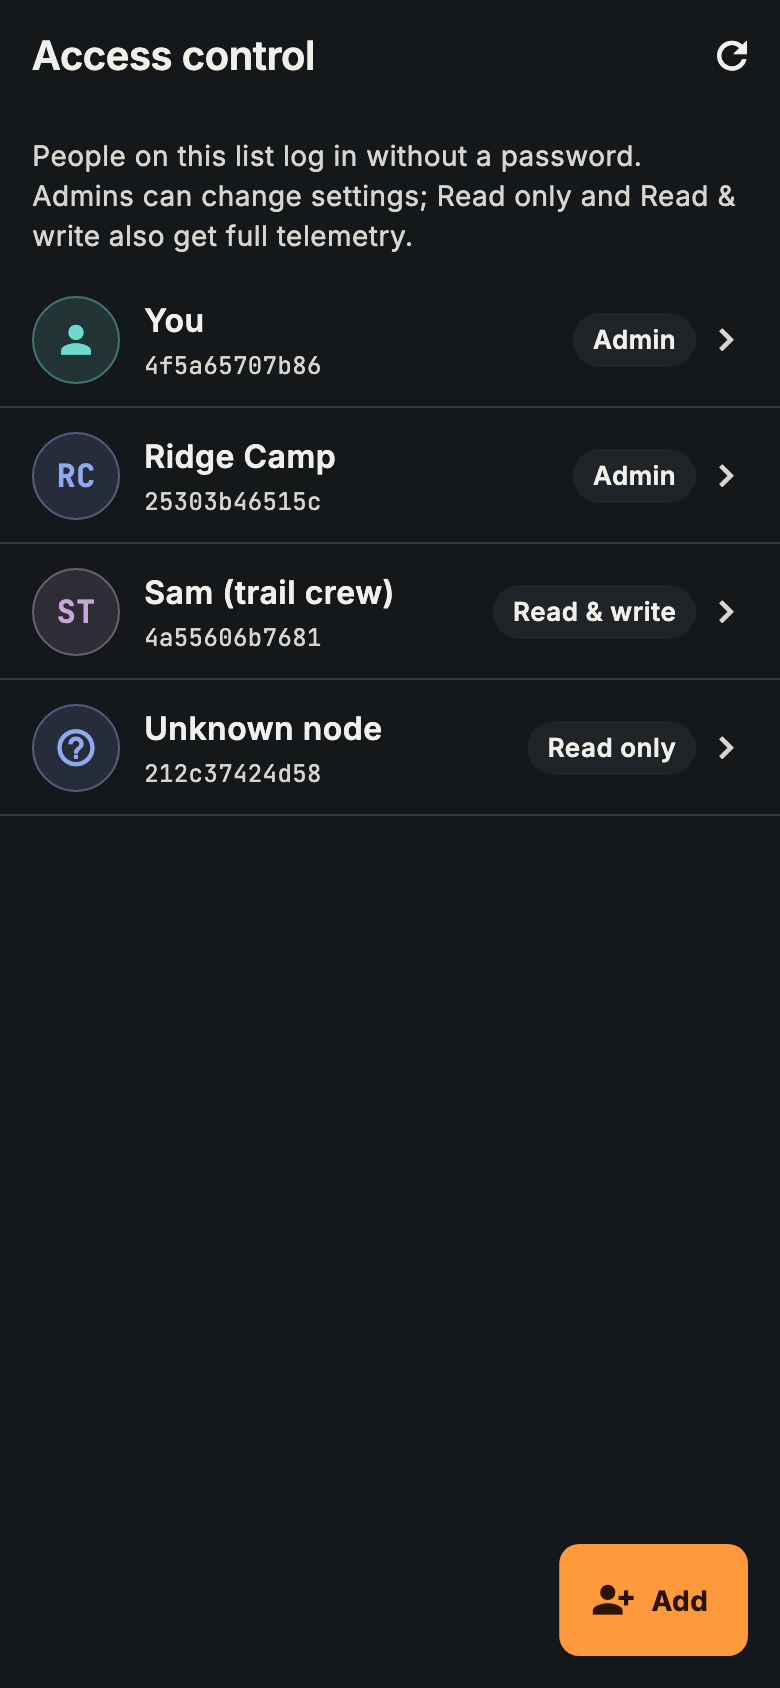
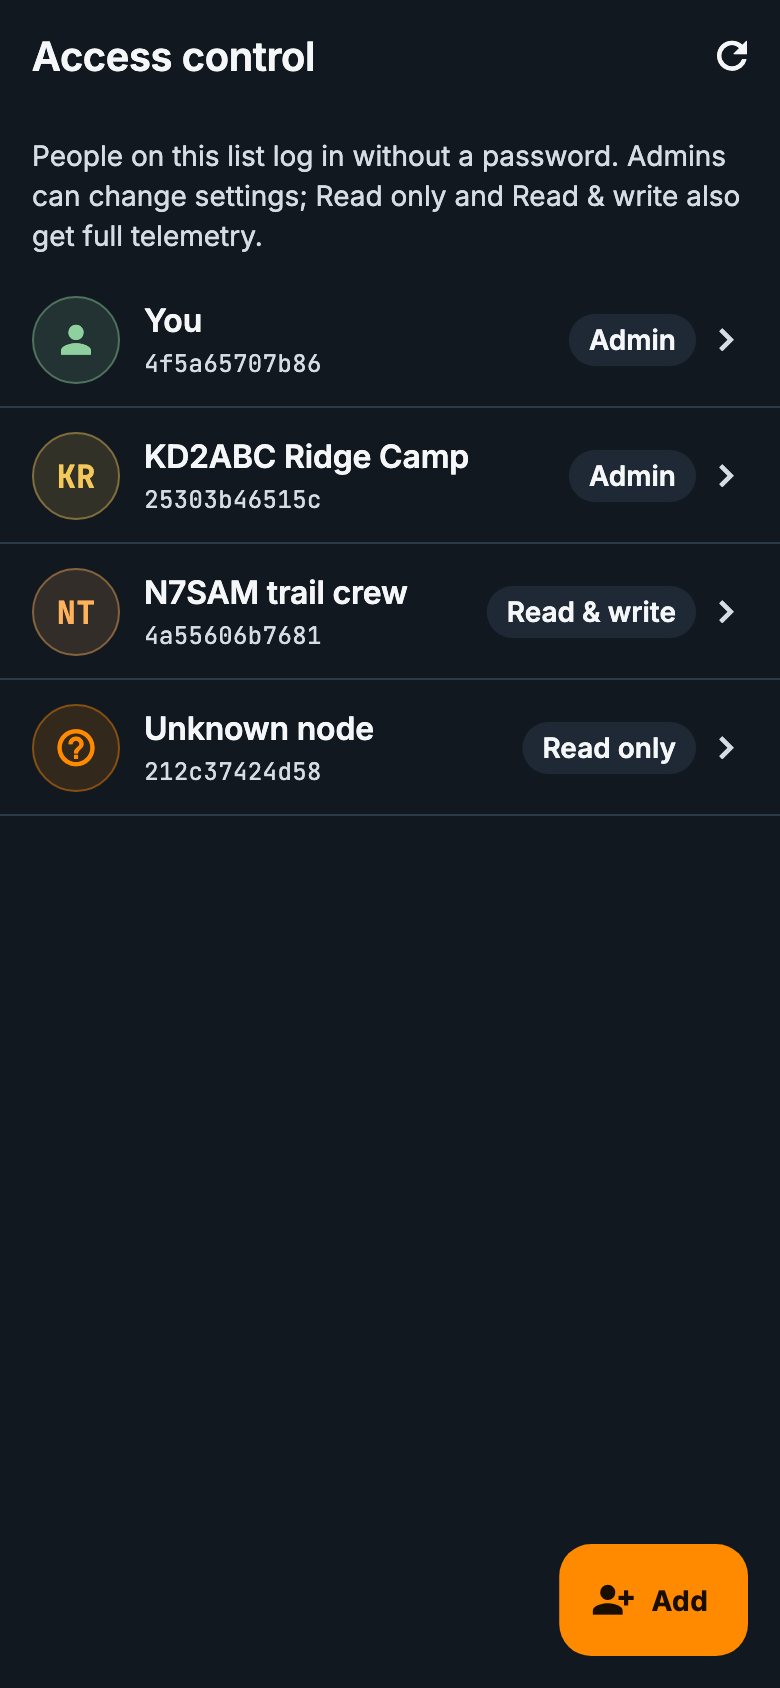
README and screenshots current as of test 14
The README still said there were no public builds and listed four themes.
It now points at test 14 and the Releases repo, lists the 14 compiled-only
firmware boards and the G2/G3 Bluetooth companion, and covers what tests
8-14 added: reports, replies and forwarding, app lock, team config,
automation rules, backup and restore, mesh health, node journal, timeline,
route picker, day replay, trace cards, the Fresnel zone, the node compass,
node looks, custom backgrounds and the eight themes.

Every screenshot is re-rendered from the current app with the preview test
and demo data. The light-theme image the README pointed at was missing; it
now shows Pink Overload. The preview test gains the node compass (with a
fake compass), the node-look sheet over Nodes, the background screen, and
two nodes with a chosen colour.

diff --git a/test/preview/screens_preview_test.dart b/test/preview/screens_preview_test.dart
@@ -7,6 +7,7 @@
 // renders taller than a phone screen, for reviewing long screens whole.
 // PREVIEW_TEXT_SCALE=1.5 renders with the system text size turned up.
 import 'dart:async';
+import 'dart:convert';
 import 'dart:io';
 import 'dart:ui' as ui;
 
@@ -84,6 +85,11 @@ import 'package:meshcore_open/models/radio_settings.dart';
 import 'package:meshcore_open/screens/licensed_operator_screen.dart';
 import 'package:meshcore_open/widgets/operator_setup_banner.dart';
 import 'package:meshcore_open/widgets/ui/mesh_states.dart';
+import 'package:meshcore_open/screens/backdrop_settings_screen.dart';
+import 'package:meshcore_open/screens/node_compass_screen.dart';
+import 'package:meshcore_open/services/device_compass.dart';
+import 'package:meshcore_open/services/node_look_store.dart';
+import 'package:meshcore_open/widgets/node_look_sheet.dart';
 
 // Anchored to today so time-filtered screens (path graph) have data in range.
 final _today = DateTime.now();
@@ -611,6 +617,17 @@ void main() {
         message: 'This removes #trailhead and its history from this phone.',
       ),
     ),
+    'node_compass': () =>
+        NodeCompassScreen(node: _contacts[1], compass: const _FakeCompass()),
+    'node_look': () => _OpensDialog(
+      (context) => showNodeLookSheet(
+        context,
+        nodeKey: _contacts[0].publicKeyHex,
+        name: _contacts[0].name,
+      ),
+      behind: const ContactsScreen(hideBackButton: true),
+    ),
+    'backdrop_settings': () => const BackdropSettingsScreen(),
     'confirm_action': () => _OpensDialog(
       (context) => confirmAction(
         context,
@@ -626,9 +643,16 @@ void main() {
   });
 
   setUp(() async {
-    SharedPreferences.setMockInitialValues({});
+    // Two nodes with a chosen colour, so the lists show node looks.
+    SharedPreferences.setMockInitialValues({
+      NodeLookStore.prefsKey: jsonEncode({
+        _contacts[0].publicKeyHex.toLowerCase(): {'c': 0xFF29B6F6},
+        _contacts[2].publicKeyHex.toLowerCase(): {'c': 0xFF7CB342},
+      }),
+    });
     PrefsManager.reset();
     await PrefsManager.initialize();
+    NodeLookStore.instance.reload();
     final tmp = Directory.systemTemp.createTempSync('preview').path;
     TestDefaultBinaryMessengerBinding.instance.defaultBinaryMessenger
         .setMockMethodCallHandler(
@@ -780,9 +804,12 @@ List<NetworkSighting> _sampleSightings() {
 
 /// A blank screen that opens [open] after its first frame, for dialog shots.
 class _OpensDialog extends StatefulWidget {
-  const _OpensDialog(this.open);
+  const _OpensDialog(this.open, {this.behind});
 
   final Future<Object?> Function(BuildContext context) open;
+
+  /// What shows behind the dialog or sheet; an empty screen by default.
+  final Widget? behind;
 
   @override
   State<_OpensDialog> createState() => _OpensDialogState();
@@ -798,5 +825,19 @@ class _OpensDialogState extends State<_OpensDialog> {
   }
 
   @override
-  Widget build(BuildContext context) => const Scaffold(body: SizedBox());
+  Widget build(BuildContext context) =>
+      widget.behind ?? const Scaffold(body: SizedBox());
+}
+
+/// A compass that always faces 40° magnetic, with 15° declination.
+class _FakeCompass extends DeviceCompass {
+  const _FakeCompass();
+
+  @override
+  Stream<CompassReading> readings() =>
+      Stream.value(const CompassReading(magneticHeading: 40, accuracy: 3));
+
+  @override
+  Future<double?> declination(double lat, double lon, {double alt = 0}) async =>
+      15;
 }

diff --git a/README.md b/README.md
@@ -17,7 +17,7 @@ NOTORYX Core Ham is the amateur radio (FCC Part 97) edition of NOTORYX Core. Pai
   <img src="docs/screenshots/ham_presets.png" width="230" alt="Radio presets: US 33 cm and 70 cm only">
 </p>
 
-> **Status: in development.** The app and firmware pass automated tests and a mesh simulator, but have **not been tested on the air yet**. There are no public builds. Everything you send is readable by anyone: that's the law on amateur bands, not a bug.
+> **Status: test builds.** The latest is **[test 14](https://github.com/TheLogsAreScreaming/NOTORYX-Core-Ham-Releases/releases/tag/v0.1.0-test.14)** (`0.1.0-test.14`, 15 November 2026). The app and firmware pass automated tests and a mesh simulator, but have **not been tested on the air yet**. Use them only on a bench with dummy loads or minimum power until they have been. Everything you send is readable by anyone: that's the law on amateur bands, not a bug.
 
 ## What makes it a ham app
 
@@ -44,10 +44,14 @@ The NOTORYX Ham firmware isn't compatible with ordinary MeshCore on the air. Eve
 | RAK WisBlock / WisMesh (RAK4631) | Bluetooth or USB | ✓ |
 | RAK WisMesh 1W Booster (RAK3401 + 13302) | Bluetooth or USB | ✓ |
 | Seeed Studio SenseCAP T1000-E | Bluetooth or USB | — |
-| UnitEng Station G2 | USB | ✓ |
-| UnitEng Station G3 | USB | ✓ |
+| UnitEng Station G2 | Bluetooth or USB | ✓ |
+| UnitEng Station G3 | Bluetooth or USB | ✓ |
 
-Station G2 and G3 companions are USB only: the Bluetooth build doesn't fit on those boards (the same as stock MeshCore v1.18.0). The firmware's transmit power is the radio chip's setting; boards with an amplifier put out more, so use the least power that works.
+The Station G2 and G3 Bluetooth companion is in [firmware test 3](https://github.com/TheLogsAreScreaming/NOTORYX-Core-Ham-Releases/releases/tag/v1.18.0-ham-test.3).
+
+**Compiled but never flashed:** [firmware test 4](https://github.com/TheLogsAreScreaming/NOTORYX-Core-Ham-Releases/releases/tag/v1.18.0-ham-test.4) adds companion and repeater builds for 14 more boards: Heltec V3, Heltec Wireless Stick Lite V3, Seeed SenseCAP Solar Node, Seeed Wio Tracker L1, Seeed Xiao nRF52 kit, Seeed Xiao S3, LilyGO T-Beam (SX1262 or SX1276), LilyGO T-Beam S3, nRF52 Pro Micro DIY, LilyGO T-Echo, LilyGO T-LoRa V2.1-1.6, LilyGO T3-S3 (SX1262 or SX1276), LilyGO T-Deck and RAK WisMesh Tag. None has been run on its board yet, so they may not boot.
+
+Companion builds can be flashed from the browser with the **[web flasher](https://www.meshmayhem.org/hamwebflasher/)**. The firmware's transmit power is the radio chip's setting; boards with an amplifier put out more, so use the least power that works.
 
 ## Getting started
 
@@ -62,7 +66,13 @@ The tabs at the bottom are **Home**, **Chats**, **Nodes**, **Map** and **More**.
 
 ## Downloads
 
-None yet. Builds will appear in **[NOTORYX-Core-Ham-Releases](https://github.com/TheLogsAreScreaming/NOTORYX-Core-Ham-Releases)** once the firmware and app pass testing on real radios.
+Test builds are in **[NOTORYX-Core-Ham-Releases](https://github.com/TheLogsAreScreaming/NOTORYX-Core-Ham-Releases/releases)**:
+
+- **Android** (arm64 APK, signed). Each test build installs over the last one. Back up first.
+- **macOS** (Intel and Apple Silicon, macOS 14 or later). It isn't notarized, so Control-click the app and choose **Open** the first time.
+- **Firmware** for the boards above, and the [web flasher](https://www.meshmayhem.org/hamwebflasher/).
+
+There's also a [download page](https://www.meshmayhem.org/ham/). They're all test builds and haven't been tried on the air.
 
 ## Features
 
@@ -74,10 +84,14 @@ Everything from NOTORYX Core, working over plain-text ham frames:
 - **Check-ins:** I'm OK, At camp, Delayed and Heading back. You see who each one reached, and can resend to anyone it missed.
 - **Check-in reminders and overdue alerts:** a notification when you're due to check in, and a warning when a trip contact goes quiet for longer than you set.
 - **Trip planning:** pick up to six contacts. Trip briefs, a Field Log of everything sent and received, and optional automations.
+- **Trip readiness check** before you head out, and **offline checklists** (such as "Before a trip" and "Putting up a node") with shareable run records.
+- **SALUTE and 9-Line reports** from the SOS panel and the check-in card. They go as plain text with your call sign, only when you press Send.
+- The SOS panel says plainly that it only reaches your chosen contacts and radios in range, and doesn't contact 911 or emergency services.
 - **Android home-screen widget:** radio status, battery and unread count, with one-tap Check in and SOS.
 
 ### Messaging
 - Direct and channel messages with delivery status, reactions, GIFs and picture messages, up to 152 characters. Pictures are sent in 157-byte chunks to fit ham frames. Tapping a notification opens that chat.
+- **Replies** to a specific message, including from a notification, and **forwarding**: long-press, pick a destination and press Send. It goes out as `FWD de <your call> from <writer>: <text>`.
 - **Find channels:** a directory of public hashtag channels (local ones first), channels heard on air that you haven't joined, and **Active online**: the #channels an online analyzer has seen in use, with one-tap Join.
 - **Message search**, per-chat **drafts**, **read aloud** and on-device translation.
 - **Share your position or a contact** from the message box. Received contacts can be added in one tap.
@@ -91,12 +105,22 @@ Everything from NOTORYX Core, working over plain-text ham frames:
 - **Route Intelligence:** learned routes and the best repeaters your radio hears directly.
 - **Observer reach:** check which online observers heard a message you sent, how many hops it took and the best signal. Repeaters you don't have as contacts can be named online. Both use a CoreScope analyzer you choose in Settings.
 - **Coverage hexagons:** record where your radio got through and upload to your own HTTPS endpoints, with a privacy delay.
-- **Antenna coverage** over the terrain, line-of-sight checks and coverage capture sessions.
+- **Antenna coverage** over the terrain and coverage capture sessions, plus an **antenna coverage estimate**.
+- **Line of sight** with the **Fresnel zone**: the profile shades the first Fresnel zone with a dashed 60% line and says whether it's clear, partly clear or blocked. It uses your radio's frequency, or 906.875 MHz if the radio hasn't reported one.
+- **Compass to a node:** an arrow that points at any node with a position, corrected to true north, with distance and bearing. Open it with **Point me to it** from a node's long-press menu, its map card or its Details sheet. It needs a phone with a compass sensor.
+- **Maidenhead grid locators**, **waypoints** with GPX import and export, **offline trail routing** and **place search**.
+- **Route view and route picker:** chart each hop of the route to a contact, score the routes heard, and pick or build one.
+- **Day replay:** play back where nodes were on a chosen day, from adverts your radio already heard.
+- **Trace card:** share a path trace as an image or text, with an offline sketch of the route.
+- **Signed coverage reports:** share coverage as a signed report that others can check. The signature is only on the shared file or upload; nothing about it goes on air.
 
 ### Your radio
 - **Sensors on Home:** your radio's own readings (battery voltage, temperatures, GPS, light and whatever else it reports).
 - **Radio presets:** US 33 cm (906.875 MHz, the firmware default), 33 cm Long Range, 33 cm Fast, US 70 cm and off-grid 33/70 cm. Frequency fields only accept 420–450 and 902–928 MHz. Choosing a preset keeps your transmit power. Coordinated local settings can be offered by area; see [adding your area](#add-your-areas-mesh-settings).
 - **Send your advert** zero-hop (only radios that hear you directly) or flooded across the mesh.
+- **Nearby repeater test:** one tap sends a single zero-hop discover request and lists the repeaters that answer, strongest first.
+- **Mesh health** card, route health warnings and **network change alerts** with a troubleshooting guide.
+- **Node journal:** every node heard, with behaviour labels, a generated mark to tell nodes apart, and your own tags and notes. A **Timeline** puts messages, newly heard nodes, big signal swings and places in one feed.
 - Connections dashboard, live radio stats and a noise-floor chart, adjustable refresh rate and battery saver.
 - Command line and Wi-Fi setup for your own radio. With permission, you can also use a trusted contact's command line.
 
@@ -105,7 +129,10 @@ Everything from NOTORYX Core, working over plain-text ham frames:
 - Repeater and room-server tools: login, status, neighbors, telemetry, command line and **access control**.
 - **Repeater IDs** (who uses an ID, which are free) and **Region setup** (US and Canada region trees, or your own) for repeater owners.
 - **Bot Mode:** local auto-replies, keyword rules and commands like `!ping`, `!sun`, `!moon`, `!dice` and `!trace`, in direct messages and in the channels you choose.
-- **Field guide**, encrypted backup and app-icon shortcuts.
+- **Automation rules** (Tools → Automation): triggers such as battery, time, area or a node going offline that raise an alert, play a sound, change the working channel, call a webhook or send a message. Automatic sends are held until the station is set up with your call sign, prefixed `[auto]`, limited to 3 every 10 minutes and logged. Read [AUTOMATION.md](docs/licensed-operator/AUTOMATION.md) and agree any rule with your coordinator before using it on the air.
+- **Team config:** share radio settings and hashtag channels by QR code or file. No keys or power settings are included, and frequencies outside 70 cm and 33 cm are refused.
+- **Field guide**, app-icon shortcuts, and **backup and restore**, including message history.
+- **App lock** with fingerprint, face or screen lock (SOS stays on the lock screen). Contacts, channel keys, waypoints and drafts are stored encrypted on the phone, and message history can be too (off by default). That's storage only; nothing on the air is encrypted.
 
 ### MQTT bridge (optional)
 - **Think before bridging.** Linking a ham mesh to the internet raises third-party traffic questions (§97.115); the [coordination guide](docs/licensed-operator/COORDINATION.md) covers it. Only frames with a station ID are used, so encrypted Part 15 traffic from other observers is ignored.
@@ -115,18 +142,26 @@ Everything from NOTORYX Core, working over plain-text ham frames:
 - **LetsMesh-style sign-in** with a token signed by your radio, so its private key never leaves it. LetsMesh (US and EU) and MeshRank presets are included; they're community services, not part of NOTORYX.
 
 ### Look and feel
-- **Frosted ember:** the main screens sit on a warm glow, with see-through glass panels and a floating tab bar. With reduce motion turned on, the blur is off.
-- Four themes: **Blaze**, **Topo night**, **Red light** (keeps your night vision) and **Alpine day** (for bright sun).
+- **Frosted ember:** the main screens sit on a glow in your theme's colours, with see-through glass panels and a floating tab bar. With reduce motion turned on, the blur is off.
+- Eight themes: **Blaze** (the default), **Neon Anarchy**, **Tactical**, **Pink Overload**, **Bare Beauty**, **Okabe-Ito** (colour-vision friendly), **Night Ops** and **Seasonal**.
+- **Your own background:** **Settings → Background** puts a colour, gradient, mesh blend or your own photo behind the glass cards.
+- **A photo or colour per node:** from a node's sheet, give it a colour or photo. It shows in Nodes, the map and chats, stays on this phone and is never sent over the radio.
 - Available in 18 languages.
 
 <p align="center">
-  <img src="docs/screenshots/nodes.png" width="200" alt="Nodes: stations heard on the mesh, named with call signs">
+  <img src="docs/screenshots/nodes.png" width="200" alt="Nodes: stations heard on the mesh, named with call signs, two with a chosen colour">
   <img src="docs/screenshots/more.png" width="200" alt="More: every tool and setting, searchable">
   <img src="docs/screenshots/settings.png" width="200" alt="Settings with the Licensed operator card">
 </p>
 
 <p align="center">
-  <img src="docs/screenshots/home_alpine_day.png" width="200" alt="Alpine day theme">
+  <img src="docs/screenshots/node_compass.png" width="200" alt="Compass pointing to a node, with distance, bearing and a turn hint">
+  <img src="docs/screenshots/node_look.png" width="200" alt="Choosing a colour or photo for a node">
+  <img src="docs/screenshots/background.png" width="200" alt="Background settings: theme glow, colour, gradient, mesh blend or photo">
+</p>
+
+<p align="center">
+  <img src="docs/screenshots/home_pink_overload.png" width="200" alt="Home in the Pink Overload theme">
   <img src="docs/screenshots/routes.png" width="200" alt="Route Intelligence">
   <img src="docs/screenshots/path_graph.png" width="200" alt="Path graph showing how messages reach you">
 </p>
@@ -191,7 +226,7 @@ flutter test
 - `lib/theme/`: themes and colors
 - `lib/utils/amateur_radio.dart`: ham frame handling, call-sign and band checks shared with the firmware
 - `docs/licensed-operator/`: the coordination guide and the Part 97 feasibility notes
-- `test/`: unit and widget tests; `test/preview/` renders screenshots (`PREVIEW_OUT=dir flutter test test/preview`, with `PREVIEW_THEME=alpine_day` or `red_light` for other themes)
+- `test/`: unit and widget tests; `test/preview/` renders screenshots with demo data (`PREVIEW_OUT=dir flutter test test/preview`; `PREVIEW_THEME=okabe_ito,night_ops` picks themes and `PREVIEW_ONLY=home,node_compass` picks screens)
 
 ## Contributing
 
